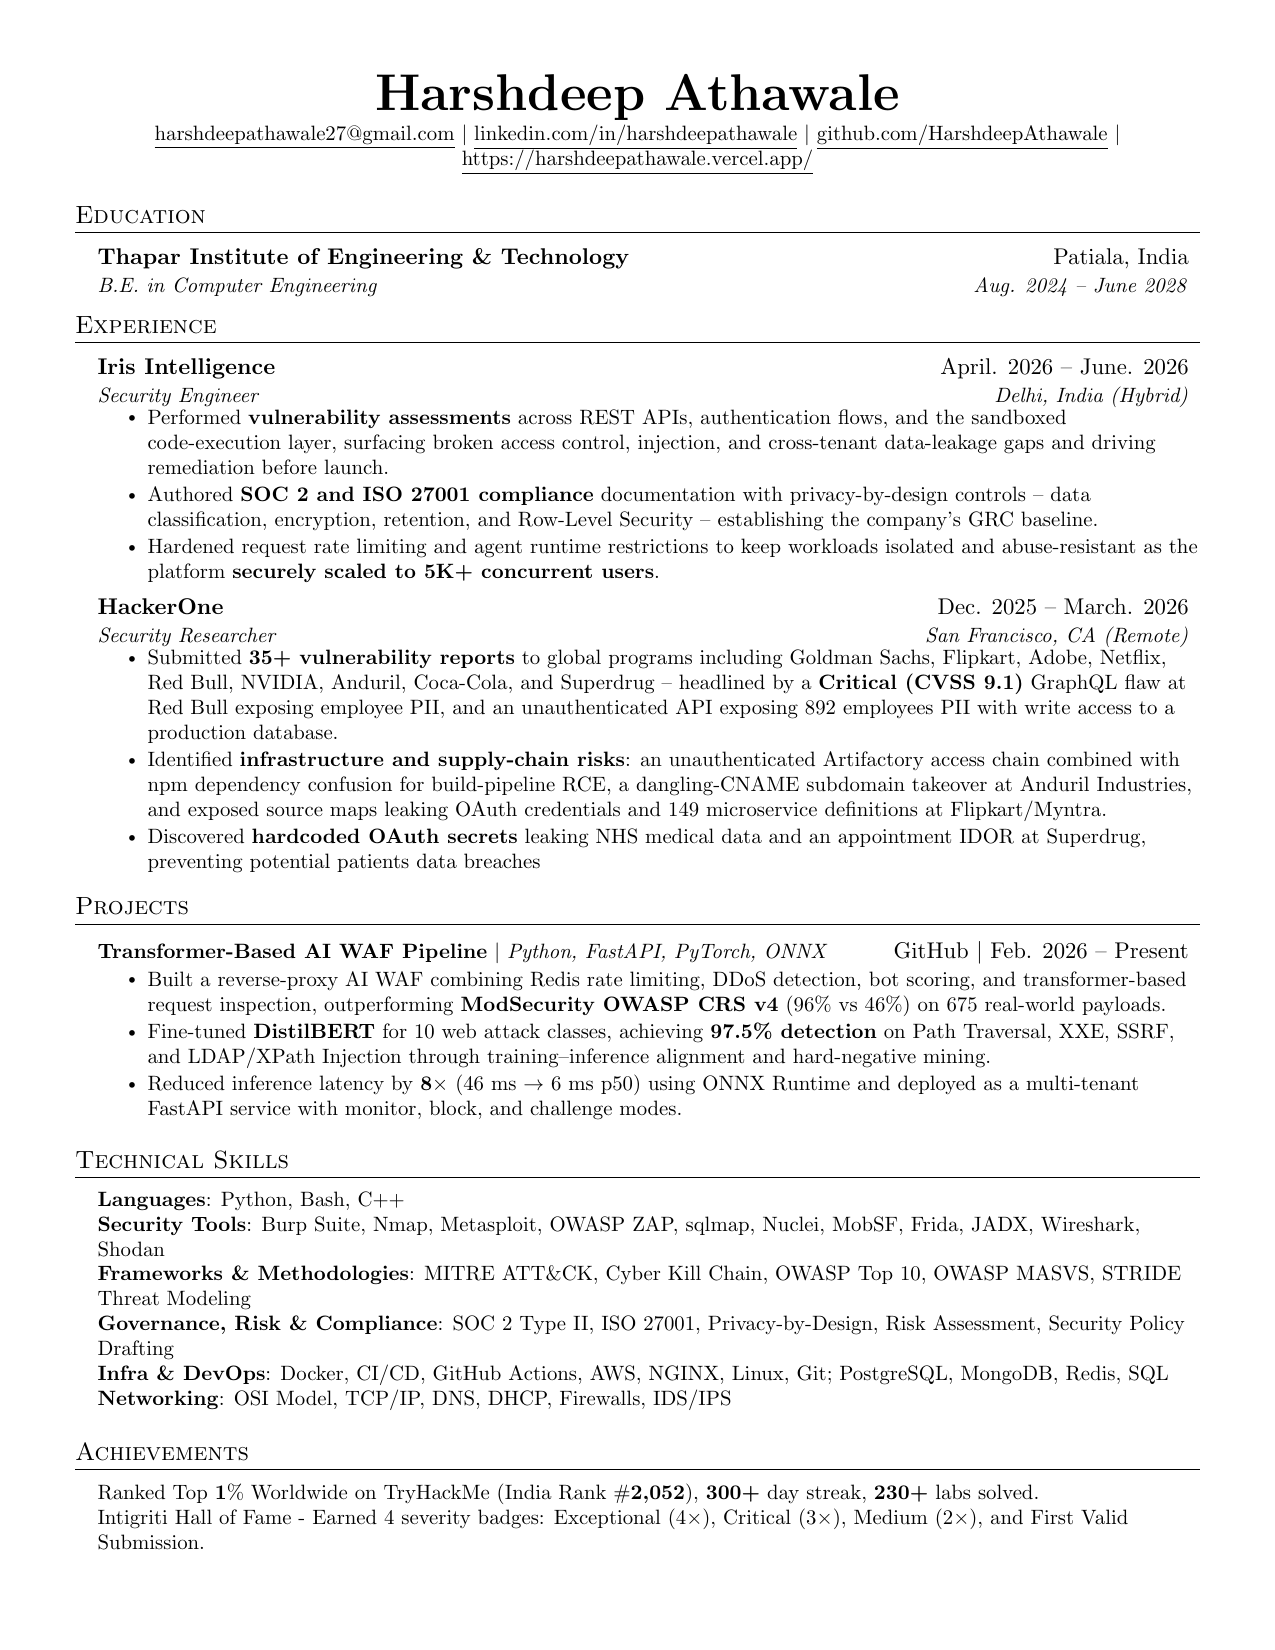
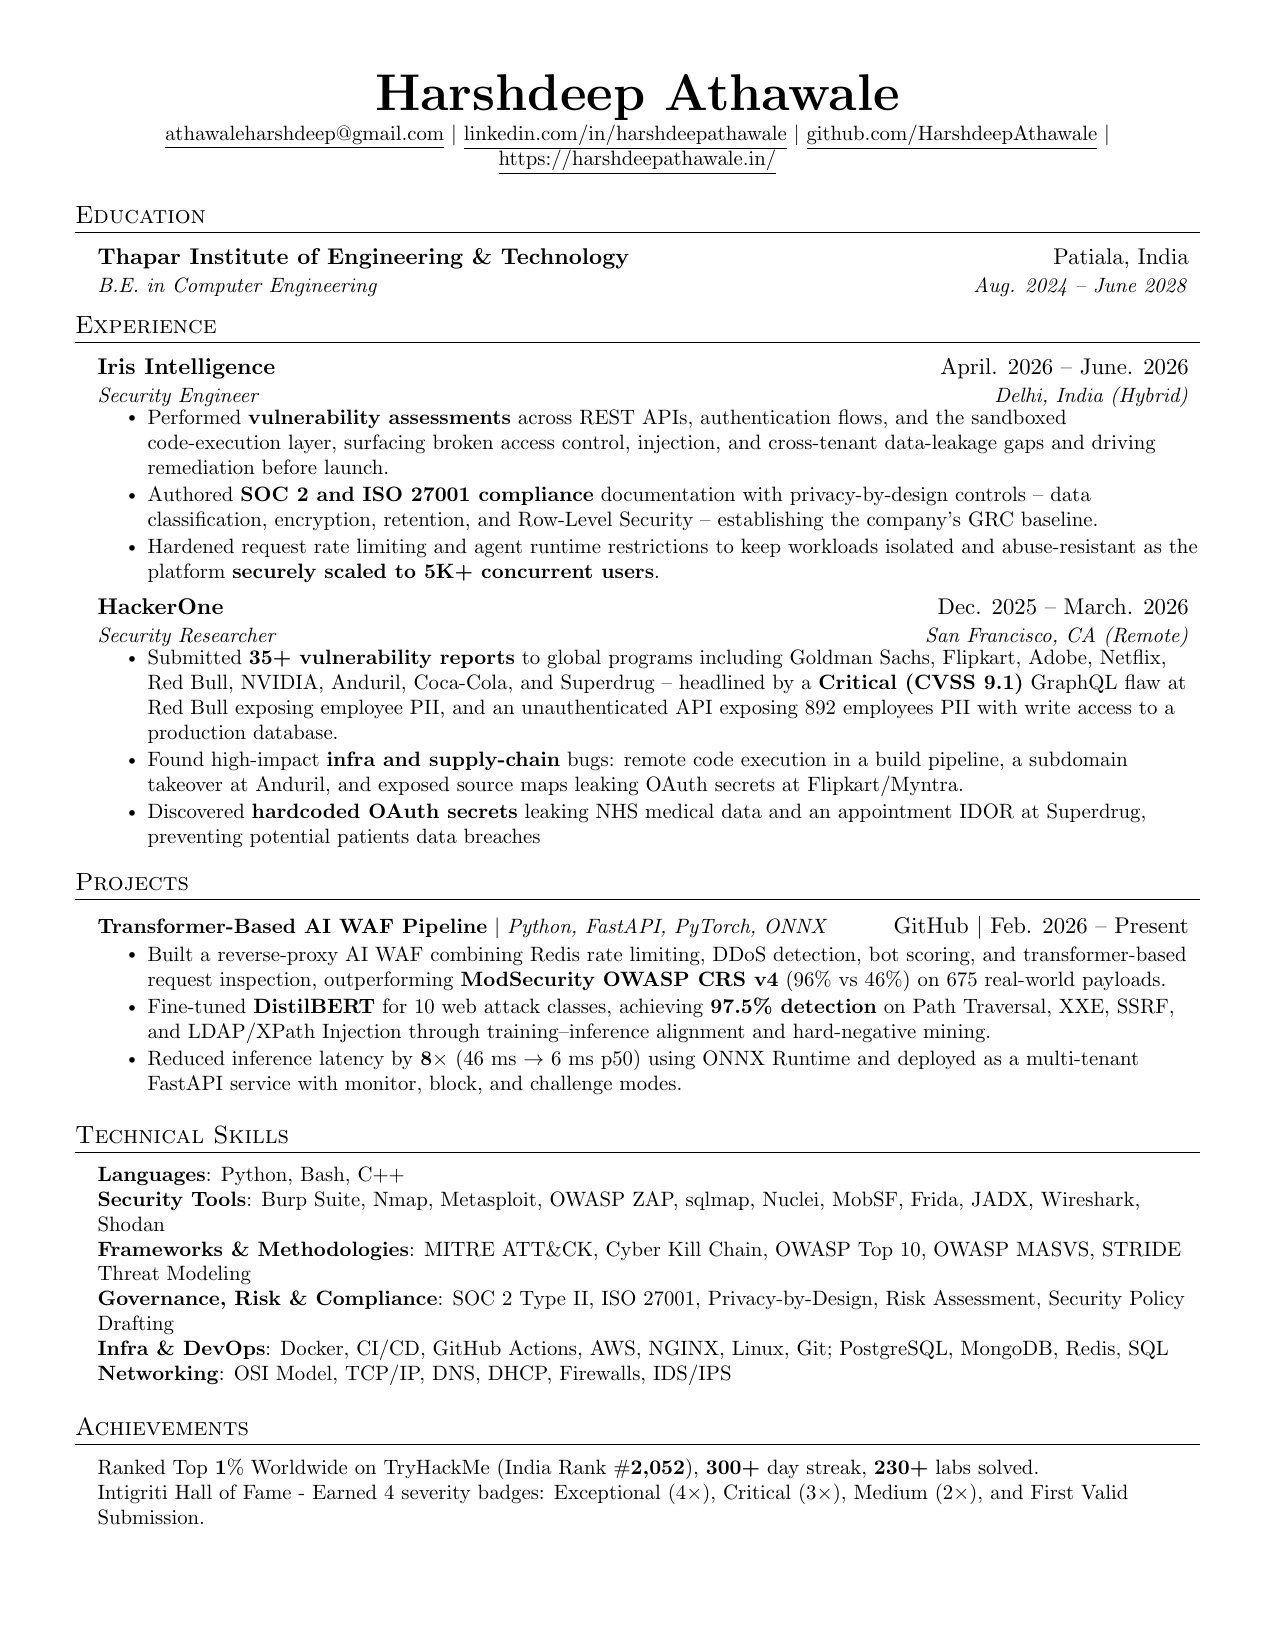
chore(resume): integrate sloth.pdf and switch to new email
New resume changes the contact email and site URL. Swap resume.pdf,
regenerate the mobile preview image, and update the email everywhere it
appears (hero, social links, footer, command menu, about connect links).

Claude-Session: https://claude.ai/code/session_01ExNKJFH4uVKBJHknUrVdqC

Changed region(s): [[0.0612, 0.4327, 0.9482, 0.9582], [0.1224, 0.0618, 0.8565, 0.1236]]

diff --git a/src/config/hero.ts b/src/config/hero.ts
@@ -1,6 +1,6 @@
 export const heroConfig = {
   name: "Harshdeep Athawale",
-  email: "harshdeepathawale27@gmail.com",
+  email: "athawaleharshdeep@gmail.com",
   bio: "I build software and break web and mobile apps to report critical bugs - 35+ vulnerability reports to programs like Red Bull, Goldman Sachs, NVIDIA, Flipkart, and Coca-Cola.",
   avatar: "/assets/avatar.png",
   avatarSmile: "/assets/avatar-smile.png",
@@ -26,7 +26,7 @@ export const socialLinks = [
   },
   {
     name: "Mail",
-    href: "mailto:harshdeepathawale27@gmail.com",
+    href: "mailto:athawaleharshdeep@gmail.com",
     icon: "mail" as const,
   },
   {

diff --git a/src/components/site-footer.tsx b/src/components/site-footer.tsx
@@ -12,7 +12,7 @@ const footerSocial = [
   { name: "LinkedIn", href: "https://www.linkedin.com/in/harshdeepathawale/", icon: LinkedinLogo },
   { name: "GitHub", href: "https://github.com/HarshdeepAthawale", icon: GithubLogo },
   { name: "Medium", href: "https://medium.com/@harshdeepathawale", icon: MediumLogo },
-  { name: "Email", href: "mailto:harshdeepathawale27@gmail.com", icon: EnvelopeSimple },
+  { name: "Email", href: "mailto:athawaleharshdeep@gmail.com", icon: EnvelopeSimple },
 ];
 
 export function SiteFooter() {

diff --git a/src/config/navigation.ts b/src/config/navigation.ts
@@ -28,5 +28,5 @@ export const commandItems = [
   { label: "GitHub", href: "https://github.com/HarshdeepAthawale", external: true },
   { label: "LinkedIn", href: "https://www.linkedin.com/in/harshdeepathawale/", external: true },
   { label: "Medium", href: "https://medium.com/@harshdeepathawale", external: true },
-  { label: "Email", href: "mailto:harshdeepathawale27@gmail.com", external: true },
+  { label: "Email", href: "mailto:athawaleharshdeep@gmail.com", external: true },
 ];

diff --git a/src/config/about.ts b/src/config/about.ts
@@ -66,7 +66,7 @@ export const aboutConfig = {
   connectLinks: [
     {
       name: "Email",
-      href: "mailto:harshdeepathawale27@gmail.com",
+      href: "mailto:athawaleharshdeep@gmail.com",
       icon: "mail" as const,
     },
     {
